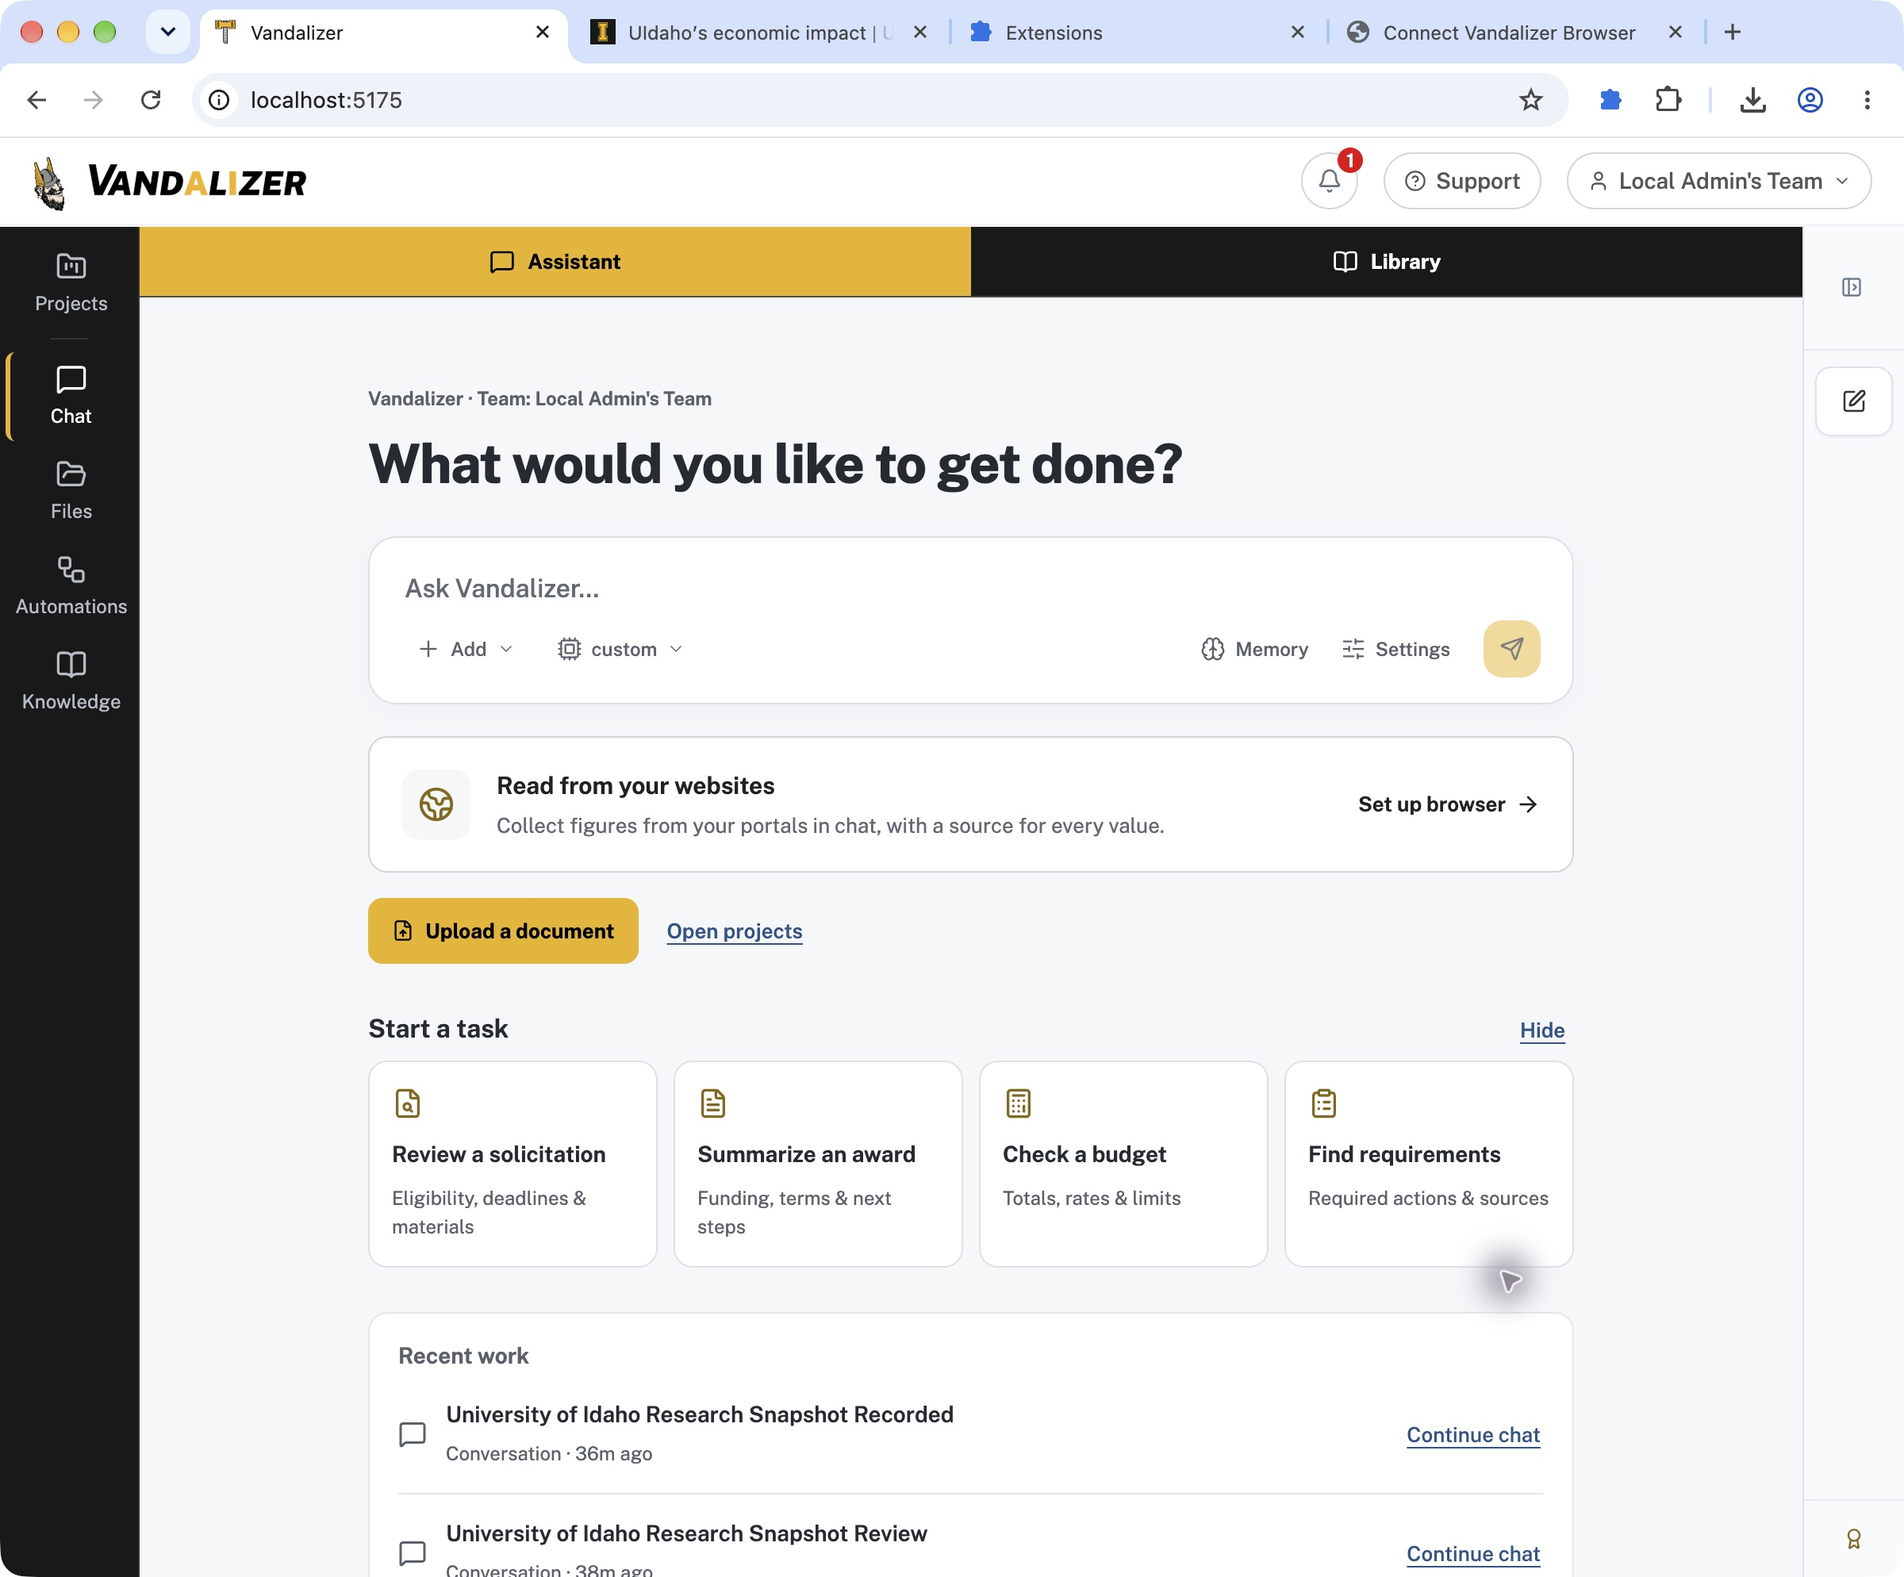
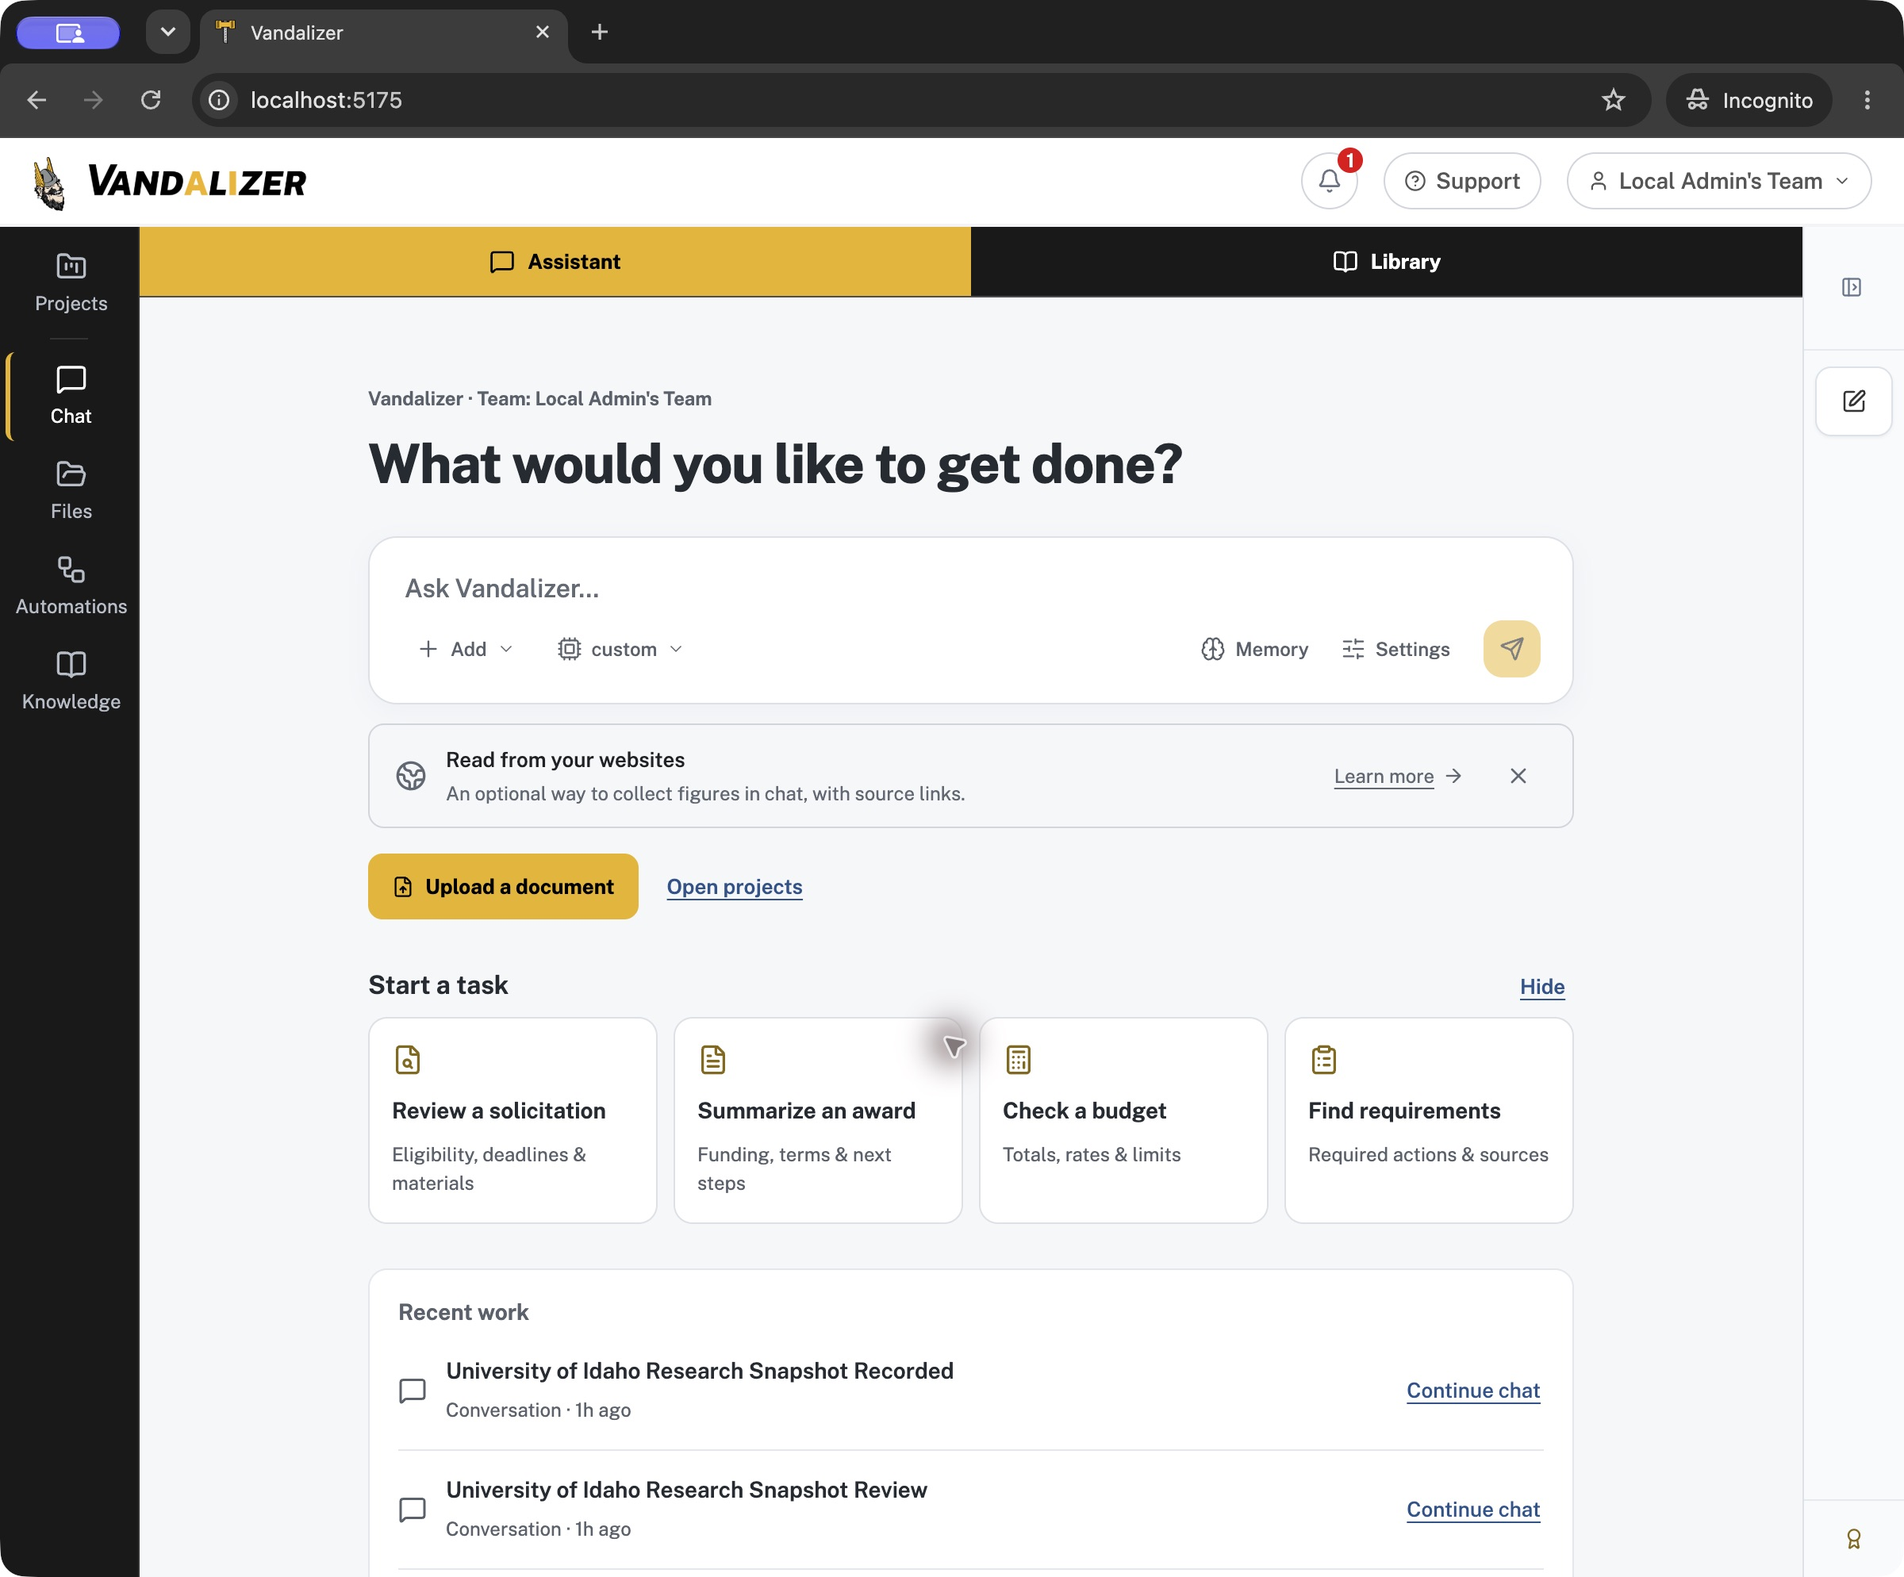
Retire browser setup suggestions after connection or dismissal

diff --git a/frontend/src/components/assistant/BrowserDiscovery.test.tsx b/frontend/src/components/assistant/BrowserDiscovery.test.tsx
@@ -1,0 +1,99 @@
+import { afterEach, beforeEach, expect, it, vi } from 'vitest'
+import { act, cleanup, fireEvent, render, screen, waitFor } from '@testing-library/react'
+import { BrowserDiscovery } from './BrowserDiscovery'
+import { browserConnection, type BrowserConnection } from '../../lib/browserSetup'
+
+vi.mock('../../lib/browserSetup', () => ({ browserConnection: vi.fn() }))
+
+beforeEach(() => {
+  localStorage.clear()
+  vi.clearAllMocks()
+  vi.mocked(browserConnection).mockResolvedValue('not-installed')
+})
+afterEach(() => { cleanup(); vi.restoreAllMocks(); vi.useRealTimers() })
+
+it('offers a quiet, optional introduction when the extension is absent', async () => {
+  render(<BrowserDiscovery />)
+  expect(screen.queryByRole('complementary')).not.toBeInTheDocument()
+  expect(await screen.findByRole('complementary', { name: 'Optional browser feature' })).toBeVisible()
+  expect(screen.getByRole('link', { name: 'Learn more about browser access' })).toHaveAttribute('href', '/assistant#browser-setup')
+  expect(screen.queryByText('Set up browser')).not.toBeInTheDocument()
+})
+
+it('never flashes an installation prompt while checking an already connected browser', async () => {
+  let resolve!: (value: BrowserConnection) => void
+  vi.mocked(browserConnection).mockReturnValue(new Promise(done => { resolve = done }))
+  const view = render(<BrowserDiscovery />)
+  expect(screen.queryByRole('complementary')).not.toBeInTheDocument()
+  await act(async () => { resolve('connected') })
+  expect(screen.queryByRole('complementary')).not.toBeInTheDocument()
+
+  // A later missed handshake must not advertise setup all over again.
+  view.unmount()
+  vi.mocked(browserConnection).mockResolvedValue('not-installed')
+  render(<BrowserDiscovery />)
+  expect(screen.queryByRole('complementary')).not.toBeInTheDocument()
+  expect(browserConnection).toHaveBeenCalledTimes(1)
+})
+
+it('remembers dismissal after remounting without changing browser access', async () => {
+  const view = render(<BrowserDiscovery />)
+  fireEvent.click(await screen.findByRole('button', { name: 'Dismiss browser suggestion' }))
+  expect(screen.queryByRole('complementary')).not.toBeInTheDocument()
+  view.unmount()
+  render(<BrowserDiscovery />)
+  expect(screen.queryByRole('complementary')).not.toBeInTheDocument()
+  expect(browserConnection).toHaveBeenCalledTimes(1)
+})
+
+it('offers connection rather than installation for an installed extension', async () => {
+  vi.mocked(browserConnection).mockResolvedValue('installed')
+  render(<BrowserDiscovery />)
+  expect(await screen.findByRole('link', { name: 'Connect your browser to this site' })).toHaveTextContent('Connect this site')
+  expect(screen.queryByText('Learn more')).not.toBeInTheDocument()
+})
+
+it('retires the suggestion when returning from connecting the extension', async () => {
+  render(<BrowserDiscovery />)
+  await screen.findByRole('complementary')
+  vi.mocked(browserConnection).mockResolvedValue('connected')
+  fireEvent.focus(window)
+  await waitFor(() => expect(screen.queryByRole('complementary')).not.toBeInTheDocument())
+})
+
+it('detects connection while the chat page stays open', async () => {
+  vi.useFakeTimers()
+  render(<BrowserDiscovery />)
+  await act(async () => { await Promise.resolve() })
+  expect(screen.getByRole('complementary')).toBeVisible()
+  vi.mocked(browserConnection).mockResolvedValue('connected')
+  await act(async () => { await vi.advanceTimersByTimeAsync(5000) })
+  expect(screen.queryByRole('complementary')).not.toBeInTheDocument()
+  await act(async () => { await vi.advanceTimersByTimeAsync(15000) })
+  expect(browserConnection).toHaveBeenCalledTimes(2)
+})
+
+it('honors dismissal in another tab', async () => {
+  render(<BrowserDiscovery />)
+  await screen.findByRole('complementary')
+  fireEvent(window, new StorageEvent('storage', { key: 'vandalizer:home:hide-browser-suggestion', newValue: '1' }))
+  expect(screen.queryByRole('complementary')).not.toBeInTheDocument()
+})
+
+it('can dismiss for this visit when browser storage is blocked', async () => {
+  vi.spyOn(Storage.prototype, 'getItem').mockImplementation(() => { throw new Error('Blocked') })
+  vi.spyOn(Storage.prototype, 'setItem').mockImplementation(() => { throw new Error('Blocked') })
+  render(<BrowserDiscovery />)
+  fireEvent.click(await screen.findByRole('button', { name: 'Dismiss browser suggestion' }))
+  expect(screen.queryByRole('complementary')).not.toBeInTheDocument()
+})
+
+it('does not turn a failed connection check into an install suggestion', async () => {
+  vi.mocked(browserConnection).mockRejectedValue(new Error('Unavailable'))
+  render(<BrowserDiscovery />)
+  await act(async () => { await Promise.resolve() })
+  expect(screen.queryByRole('complementary')).not.toBeInTheDocument()
+  vi.mocked(browserConnection).mockResolvedValue('not-installed')
+  fireEvent.focus(window)
+  expect(await screen.findByRole('complementary')).toBeVisible()
+})

diff --git a/frontend/src/components/assistant/BrowserDiscovery.tsx b/frontend/src/components/assistant/BrowserDiscovery.tsx
@@ -1,13 +1,66 @@
 import './browser-setup.css'
-import { ArrowRight, Globe2 } from 'lucide-react'
+import { useCallback, useEffect, useState } from 'react'
+import { ArrowRight, Globe2, X } from 'lucide-react'
+import { browserConnection, type BrowserConnection } from '../../lib/browserSetup'
 import { AssistantSettingsAnchor } from './AssistantSettingsLink'
 
+// Like the other Home preferences, this choice belongs to this browser/site.
+// Completing setup also retires the suggestion; a temporary disconnect is
+// handled in browser settings, not by advertising installation again.
+const hiddenKey = 'vandalizer:home:hide-browser-suggestion'
+function isHidden() {
+  try { return localStorage.getItem(hiddenKey) === '1' } catch { return false }
+}
+
 export function BrowserDiscovery() {
-  return <div className="browser-panel browser-discovery">
-    <AssistantSettingsAnchor browser label="Read from your websites: set up your browser">
-      <span className="browser-discovery-icon"><Globe2 size={23} aria-hidden="true" /></span>
-      <div className="browser-discovery-copy"><strong>Read from your websites</strong><p>Collect figures from your portals in chat, with a source for every value.</p></div>
-      <span className="browser-discovery-action">Set up browser <ArrowRight size={16} aria-hidden="true" /></span>
+  const [hidden, setHidden] = useState(isHidden)
+  const [connection, setConnection] = useState<BrowserConnection>('checking')
+  const dismiss = useCallback(() => {
+    setHidden(true)
+    try { localStorage.setItem(hiddenKey, '1') } catch { /* Still hide it for this visit. */ }
+  }, [])
+
+  useEffect(() => {
+    if (hidden) return
+    let active = true
+    let pending = false
+    const check = async () => {
+      if (pending || document.hidden) return
+      pending = true
+      try {
+        const next = await browserConnection()
+        if (!active) return
+        if (next === 'connected') dismiss()
+        else setConnection(next)
+      } catch { /* An uncertain connection is no reason to suggest installing. */ }
+      finally { pending = false }
+    }
+    const refresh = () => { void check() }
+    const syncDismissal = (event: StorageEvent) => {
+      if (event.key === hiddenKey && event.newValue === '1') setHidden(true)
+    }
+    refresh()
+    const timer = window.setInterval(refresh, 5000)
+    window.addEventListener('focus', refresh)
+    window.addEventListener('storage', syncDismissal)
+    document.addEventListener('visibilitychange', refresh)
+    return () => {
+      active = false
+      clearInterval(timer)
+      window.removeEventListener('focus', refresh)
+      window.removeEventListener('storage', syncDismissal)
+      document.removeEventListener('visibilitychange', refresh)
+    }
+  }, [hidden, dismiss])
+
+  if (hidden || connection === 'checking') return null
+
+  return <aside className="browser-panel browser-discovery" aria-label="Optional browser feature">
+    <Globe2 className="browser-discovery-icon" size={20} aria-hidden="true" />
+    <div className="browser-discovery-copy"><strong>Read from your websites</strong><p>An optional way to collect figures in chat, with source links.</p></div>
+    <AssistantSettingsAnchor browser className="browser-discovery-action" label={connection === 'installed' ? 'Connect your browser to this site' : 'Learn more about browser access'}>
+      {connection === 'installed' ? 'Connect this site' : 'Learn more'} <ArrowRight size={14} aria-hidden="true" />
     </AssistantSettingsAnchor>
-  </div>
+    <button type="button" className="browser-discovery-dismiss" aria-label="Dismiss browser suggestion" title="Dismiss suggestion" onClick={dismiss}><X size={16} aria-hidden="true" /></button>
+  </aside>
 }

diff --git a/frontend/src/components/assistant/browser-setup.css b/frontend/src/components/assistant/browser-setup.css
@@ -87,14 +87,15 @@
 .browser-safety strong { color: var(--browser-text); margin-bottom: 3px; font-weight: 600; }
 .browser-panel a:focus-visible, .browser-panel button:focus-visible, .browser-panel summary:focus-visible, .browser-choice input:focus-visible + span { outline: 3px solid var(--browser-accent); outline-offset: 3px; }
 .browser-panel button:disabled { cursor: default; }
-.browser-discovery { margin-top: 20px; border: 1px solid var(--browser-line); border-radius: 12px; }
-.browser-discovery > a { display: flex; align-items: center; gap: 16px; padding: 19px 20px; color: var(--browser-text); text-decoration: none; border-radius: inherit; }
-.browser-discovery > a:hover { background: var(--browser-soft); }
-.browser-discovery-icon { display: flex; align-items: center; justify-content: center; width: 44px; height: 44px; flex: none; border-radius: 11px; background: var(--browser-soft); color: var(--browser-accent); }
+.browser-discovery { display: flex; align-items: center; gap: 12px; margin-top: 12px; padding: 10px 12px 10px 16px; border: 1px solid var(--browser-line); border-radius: 10px; background: transparent; }
+.browser-discovery-icon { flex: none; color: var(--browser-muted); }
 .browser-discovery-copy { flex: 1; min-width: 0; }
-.browser-discovery strong { display: block; font-size: 15px; font-weight: 650; margin-bottom: 3px; }
-.browser-discovery p { color: var(--browser-muted); font-size: 13px; line-height: 1.5; margin: 0; max-width: 450px; }
-.browser-discovery-action { display: flex; align-items: center; gap: 6px; white-space: nowrap; font-size: 13px; font-weight: 650; }
+.browser-discovery strong { display: block; font-size: 13px; font-weight: 550; }
+.browser-discovery p { color: var(--browser-muted); font-size: 12px; line-height: 1.5; margin: 2px 0 0; }
+.browser-discovery-action { display: inline-flex; align-items: center; gap: 5px; min-height: 44px; color: var(--browser-muted); white-space: nowrap; font-size: 12px; text-decoration: underline; text-underline-offset: 3px; }
+.browser-discovery-dismiss { display: flex; align-items: center; justify-content: center; width: 44px; height: 44px; flex: none; border: 0; border-radius: 6px; background: transparent; color: var(--browser-muted); cursor: pointer; }
+.browser-discovery-action:hover, .browser-discovery-dismiss:hover { color: var(--browser-text); }
+.browser-discovery-dismiss:hover { background: var(--browser-soft); }
 @media (max-width: 620px) {
   .browser-wizard-header, .browser-stage { padding: 22px 20px; }
   .browser-steps { padding: 0 8px; }
@@ -104,9 +105,9 @@
   .browser-download-card > a { width: 100%; }
   .browser-address { flex-wrap: wrap; }
   .browser-skill-card { padding: 20px; }
-  .browser-discovery > a { gap: 12px; flex-wrap: wrap; padding: 16px; }
-  .browser-discovery-copy { flex-basis: calc(100% - 60px); }
-  .browser-discovery-action { margin-left: 56px; }
+  .browser-discovery { display: grid; grid-template-columns: 20px minmax(0, 1fr) 44px; gap: 0 10px; }
+  .browser-discovery-action { grid-column: 2; justify-self: start; }
+  .browser-discovery-dismiss { grid-column: 3; grid-row: 1 / 3; }
 }
 @media (prefers-color-scheme: dark) {
   .browser-panel { --browser-surface: #1f2933; --browser-text: #edf0f4; --browser-muted: #bcc7d3; --browser-line: #465366; --browser-soft: #263340; --browser-accent: #e9c95b; }

diff --git a/frontend/src/components/chat/ChatPanel.tsx b/frontend/src/components/chat/ChatPanel.tsx
@@ -12,7 +12,7 @@ import { ChatInput } from './ChatInput'
 import { AttachmentList } from './AttachmentList'
 import { ChatSkillDialog } from './ChatSkillDialog'
 import { SkillReviewDialog } from './SkillReviewDialog'
-import { AssistantSettingsAnchor, AssistantSettingsLink } from '../assistant/AssistantSettingsLink'
+import { AssistantSettingsLink } from '../assistant/AssistantSettingsLink'
 import { BrowserDiscovery } from '../assistant/BrowserDiscovery'
 import { CoreSkillsNotice } from '../assistant/CoreSkillsNotice'
 import { useCoreSkills } from '../../hooks/useCoreSkills'
@@ -1039,7 +1039,6 @@ export function ChatPanel({ conversationToLoad, pendingMessage, onPendingMessage
           hasMessages={messages.length > 0}
           hasDocuments={fileAttachments.length > 0 || urlAttachments.length > 0 || selectedDocUuids.length > 0 || selectedFolderUuids.length > 0}
           memoryControl={<>
-            {!showHome && messages.length === 0 && <AssistantSettingsAnchor browser className="chat-composer-tool" label="Set up your browser">Use your browser</AssistantSettingsAnchor>}
             <MemoryPanel />
             <AssistantSettingsLink pausedCount={coreSkillsNeedingAttention(coreSkills.page).length} unavailable={!!coreSkills.error} />
           </>}

diff --git a/docs/browser-demo-presenter.md b/docs/browser-demo-presenter.md
@@ -2,7 +2,7 @@
 
 The demo is a normal Skill you add to your account. It reads real public university pages; it has no separate website, service, scripted chat mode or seeded account.
 
-1. Start on the chat home screen. In **Read from your websites**, choose **Set up browser**. Follow the four steps: Download, Install, Connect, and Try a Skill. The app detects connection automatically. The same guide is near the top of Assistant settings.
+1. Start on the chat home screen. In **Read from your websites**, choose **Learn more** (or **Connect this site** if the extension is already installed). Follow the four steps: Download, Install, Connect, and Try a Skill. The app detects connection automatically and retires the suggestion. You can also dismiss it. The guide stays available through the composer's **Settings**, near the top of Assistant settings.
 2. Once connected, click **Add Skill to Library**, review its instructions in the existing Library editor, and click **Create Skill**. Alternatively download [browser-demo.json](../frontend/public/skills/browser-demo.json), open **Library → New → Skill**, and choose **Upload file**. This is a regular Library Skill: choose it for one chat, or add it to Core Skills in Assistant settings. Keep “Use your browser” on and allowed by your administrator; setup explains if it is off.
 3. Open **University research snapshot** in Library and choose **Run Skill**. In Vandalizer chat, send **Run the research snapshot**.
 4. Allow `www.uidaho.edu` when the extension asks. Chat opens the real page in its working tab, reads the figures and calls `record_value` once per figure. Point to the read-only site indicator and recorded source links.

diff --git a/CHANGELOG.md b/CHANGELOG.md
@@ -6,6 +6,7 @@ The format is based on [Keep a Changelog](https://keepachangelog.com/en/1.1.0/).
 
 ## [Unreleased]
 
+- Made the browser suggestion optional and dismissible. It stays hidden after connection or dismissal, and an installed extension is offered connection instead of installation.
 - Added in-app Vandalizer Browser installation and connection guidance, automatic site setup, browser activity and sign-in actions, browser Skill starters, and an importable example Skill that reads real public university pages.
 - Replaced the browser setup checklist with a guided flow that remembers your step, detects installation and connection, and offers a regular Library Skill when ready. Added a visible entry on the chat home screen and clearer Library/Core Skills wording.
 - Kept chat table columns readable when a cell contains a long explanation; wide tables scroll without squeezing figures or source links into broken words.
